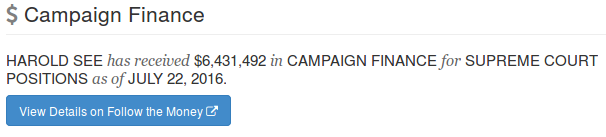
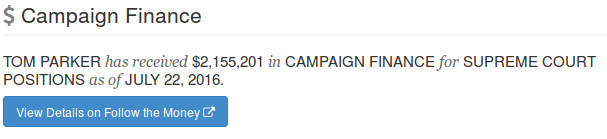
Tweaks to judicial campaign page.

diff --git a/content/judge-campaign-finance-data.md b/content/judge-campaign-finance-data.md
@@ -1,39 +1,40 @@
 Title: Judge Profiles on CourtListener Now Have Campaign Finance Information from the National Institute on Money In State Politics
 Author: mlissner
-Date: 2016-07-25
+Date: 2016-07-27
 Tags: judge database, announcements, linkages, courtlistener, elections, campaign finance
-Status: draft
 
 <div class="left-image">
     <a href="https://followthemoney.org">
         <img src="{filename}/images/ftm-logo.png"
-             alt="Follow the Money Logo"
+             alt="FollowTheMoney.org Logo"
              class="img-responsive">
     </a>
 </div>
 
-We're proud to share that as of today we've added campaign finance data to our [database of judges][jdb]. This update links judges in the CourtListener system to their fundraising profiles in the [Follow the Money][ftm] database, allowing researchers and members of the public a new way to understand judges elected in State Supreme Court jurisdictions. This work was made possible by a [prototype grant][g] from the John S. and James L. Knight Foundation.
+We're proud to share that as of today we've added campaign finance data to our [database of judges][jdb]. This update links judges in the CourtListener system to their fundraising profiles in the [FollowTheMoney.org][ftm] database, allowing researchers and members of the public a new way to understand judges elected in State Supreme Court jurisdictions. This work was made possible by a [prototype grant][g] from the John S. and James L. Knight Foundation.
 
 Using this system, you can easily see the sources of money that a judge received as part of an election, and you can put it side by side with all of the data that we have already gathered about that judge, such as the decisions they've written, the positions they've held professionally and in the judiciary, and their biographical information.
 
-For example, on the page for [Judge Harold See][hsee], there is a new section that looks like this:
+For example, on the page for [Judge Tom Parker][tp], there is a new section that looks like this:
 
-[![Example Screenshot]({filename}/images/ftm-integration.png)][hsee]
+[![Example Screenshot]({filename}/images/ftm-integration.png)][tp]
 
-*At approximately $6.5M dollars, Harold See raised more money than any other judge in CourtListener.*
+*Tom Parker has raised approximately $2.1M dollars.*
 
-To our knowledge, it has never previously been possible to research the decisions written by a judge side by side with the money they've received. We invite researchers and journalists to use this information to uncover interesting biases that may have previously been less transparent.
+To our knowledge, it has never previously been possible to research the decisions written by a judge side by side with the money they've received. We invite researchers and journalists to use this information to uncover interesting biases that may have previously been less transparent. Other correlations can also be easily investigated. For example, a few quick queries of the data indicate that male judges appear to raise about $60,000 more than female judges.[^1]
 
-"Quotation here," says Denise Roth Barber, Managing Director of the National Institute on Money In State Politics, the organization behind Follow the Money.
+"When judges have to raise money to fund their election campaigns, it is important for the public to be able to easily find out who is giving them money," says Denise Roth Barber, Managing Director of the National Institute on Money In State Politics, the organization behind FollowTheMoney.org. "Free Law Project understands that, and so it is now linking the judges in the CourtListener system to their donor profiles at FollowTheMoney.org. We are thrilled to be able to collaborate with Free Law Project on this endeavor." 
 
 We have a lot of work to do to make our database the most comprehensive collection of judicial information available, and this update brings it one step closer. The next steps we plan on taking are to add financial disclosure reports for federal judges, and to add additional magistrate and federal bankruptcy judges. We are seeking funding for these projects.
  
 To get started with this addition, you can browse [the judges in CourtListener][j], or explore our [APIs and Bulk Data][api]. 
 
 
+[^1]: This is based on 346 State Supreme Court judges that won their election, raised at least $1, and which have gender information encoded in CourtListener. 
+
 [jdb]: {filename}/judge_database.md
 [ftm]: https://followthemoney.org
 [g]: https://www.newschallenge.org/challenge/elections/entries/openjudiciary-org-only-an-informed-electorate-can-participate-meaningfully-in-judicial-elections-open-judiciary-s-judge-profiles-combines-campaign-contributions-and-analysis-of-judicial-records-to-inform-voters-and-enable-investigative-reporting
 [j]: https://www.courtlistener.com/?type=p
 [api]: https://www.courtlistener.com/api/
-[hsee]: https://www.courtlistener.com/person/3659/harold-see/
+[tp]: https://www.courtlistener.com/person/3652/tom-parker/
